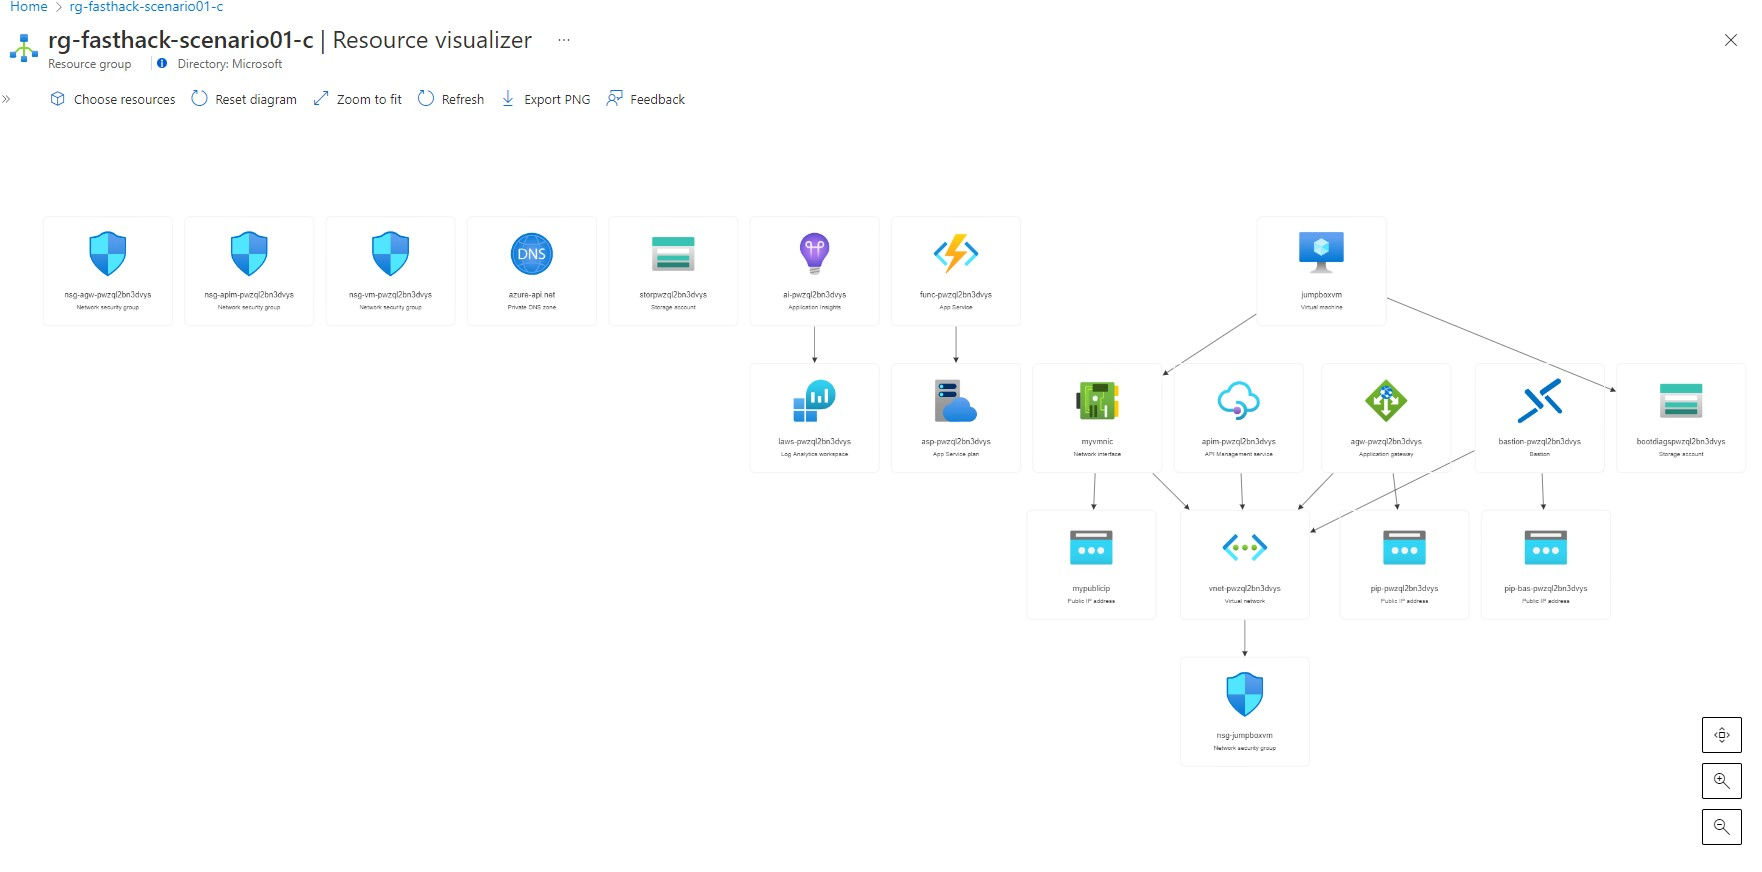
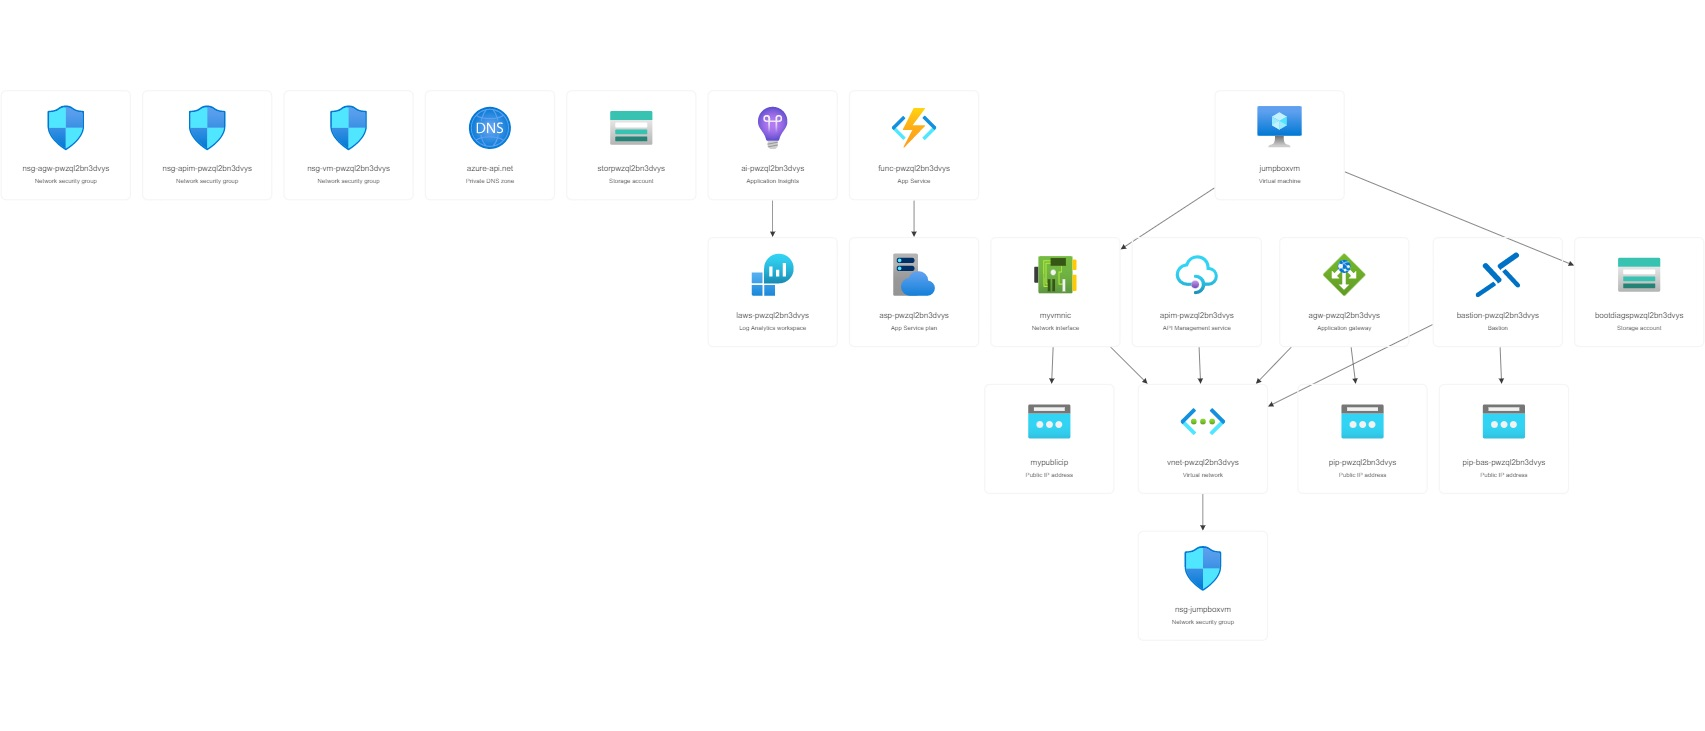
Updated screenshots

diff --git a/050-AIS-APIManagementwithFunctions/Coach/Solution-01.md b/050-AIS-APIManagementwithFunctions/Coach/Solution-01.md
@@ -28,7 +28,7 @@ Students has to do one of the following AIS environments, click on the link belo
   1. Virtual Network with 3-4 subnets
 
   Eventually, the environment would look like the one below:
-  ![VNET-integration AIS](./images/Solution01_VNET_integrated_AIS.png)
+  ![VNET-integration AIS](./images/Solution01_VNET_integrated_AIS.jpg)
 
   - Create a resource group and run the following Azure CLI command to deploy the Bicep templates as follows:
     ```
